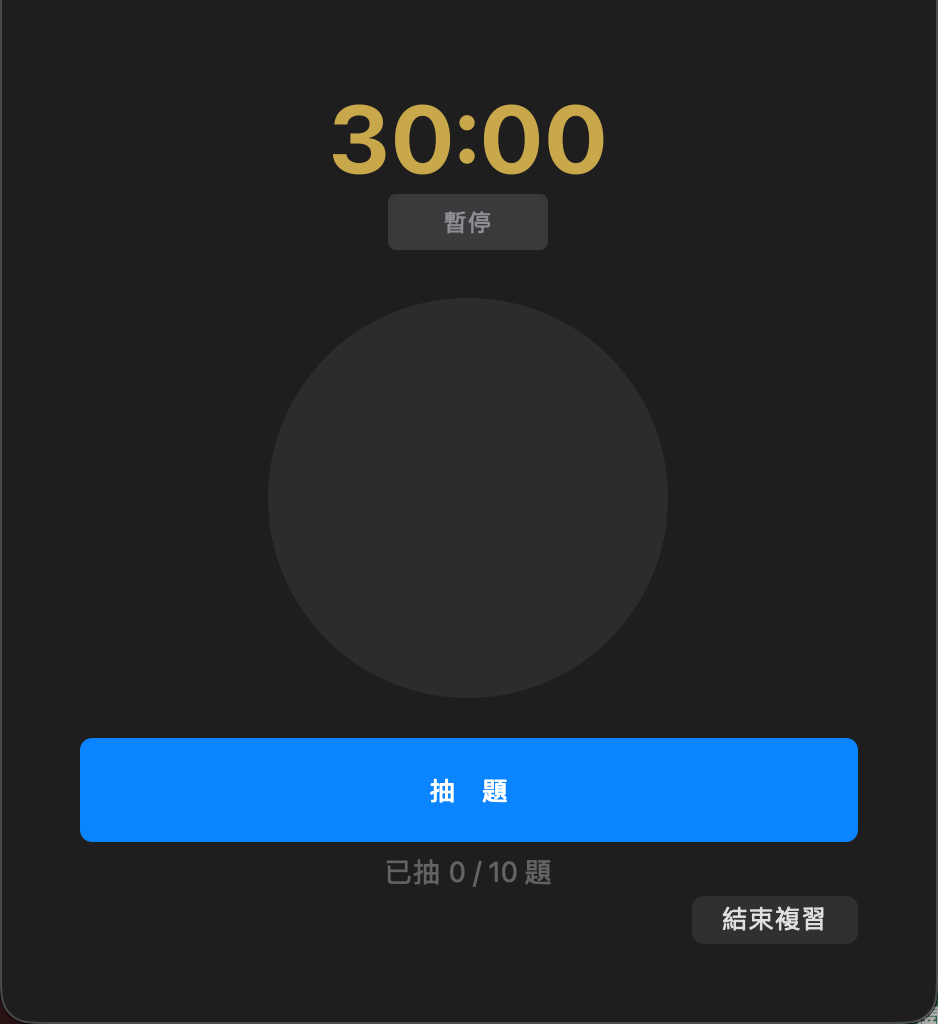
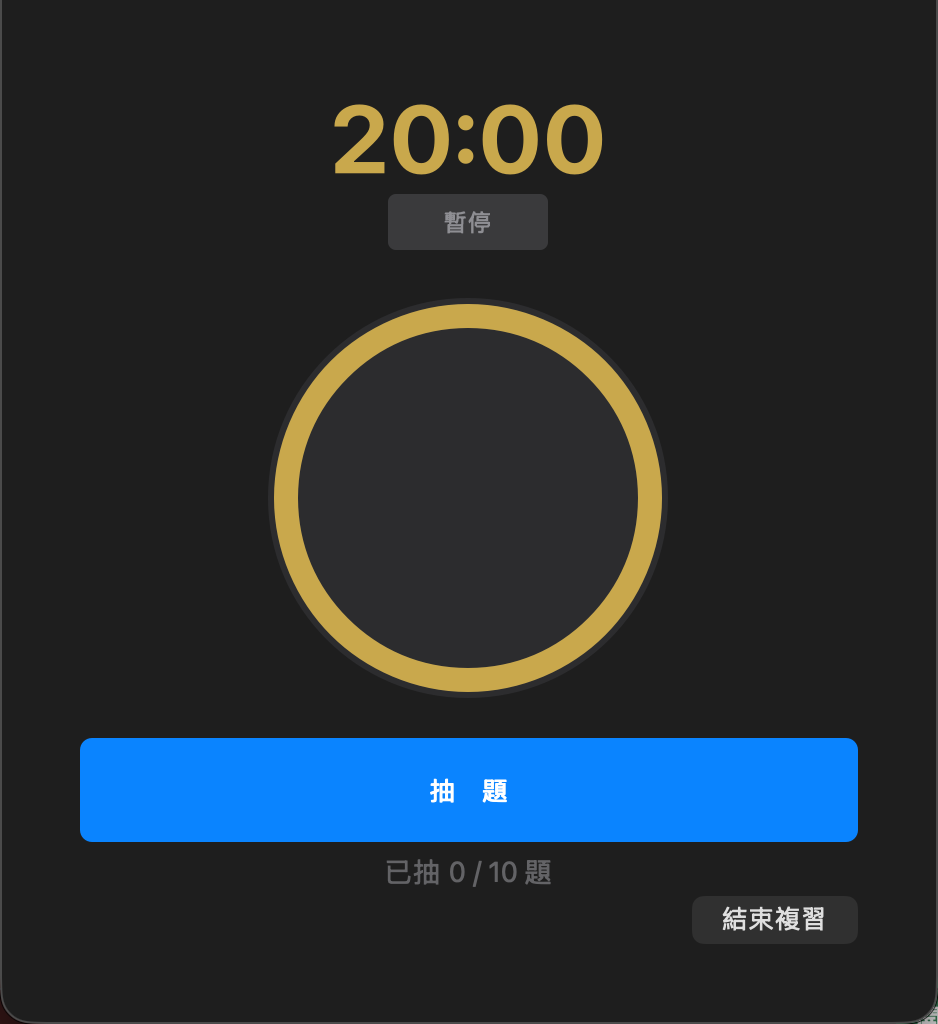
feat: replace 30-min timer circle with 20-min progress ring

diff --git a/src/presentation/chapter_review_widget.py b/src/presentation/chapter_review_widget.py
@@ -4,14 +4,75 @@ from PyQt6.QtWidgets import (
     QVBoxLayout, QHBoxLayout, QLabel, QPushButton,
     QSpinBox, QStackedWidget, QWidget,
 )
-from PyQt6.QtCore import Qt, QTimer, pyqtSignal
-from PyQt6.QtGui import QFont
+from PyQt6.QtCore import Qt, QTimer, QRectF, pyqtSignal
+from PyQt6.QtGui import QColor, QFont, QPainter, QPen
 
 from src.control.chapter_controller import ChapterController
 from src.presentation.dialogs import show_error
 import src.presentation.theme as T
 
-_TIMER_SECONDS = 30 * 60
+_TIMER_SECONDS = 20 * 60  # 20 minutes
+
+
+class _ProgressRing(QWidget):
+    """Circular progress ring showing remaining-time ratio, with question number in the centre."""
+
+    _RING_W = 12
+    _SIZE   = 200
+
+    def __init__(self, parent=None):
+        super().__init__(parent)
+        self._ratio: float = 1.0
+        self._text:  str   = ""
+        self.setFixedSize(self._SIZE, self._SIZE)
+
+    def set_ratio(self, ratio: float) -> None:
+        self._ratio = max(0.0, min(1.0, ratio))
+        self.update()
+
+    def set_text(self, text: str) -> None:
+        self._text = text
+        self.update()
+
+    def paintEvent(self, _event) -> None:
+        p = QPainter(self)
+        p.setRenderHint(QPainter.RenderHint.Antialiasing)
+
+        w = h = self._SIZE
+        m = self._RING_W // 2 + 3          # margin so ring isn't clipped
+        ring_rect = QRectF(m, m, w - 2*m, h - 2*m)
+
+        # ── Background fill ────────────────────────────────────────────
+        p.setPen(Qt.PenStyle.NoPen)
+        p.setBrush(QColor(T.SURFACE))
+        p.drawEllipse(0, 0, w, h)
+
+        # ── Track (dim full ring) ──────────────────────────────────────
+        p.setBrush(Qt.BrushStyle.NoBrush)
+        p.setPen(QPen(QColor(T.SURFACE_ALT), self._RING_W,
+                      Qt.PenStyle.SolidLine, Qt.PenCapStyle.FlatCap))
+        p.drawEllipse(ring_rect)
+
+        # ── Progress arc (gold, remaining ratio) ───────────────────────
+        if self._ratio > 0.001:
+            p.setPen(QPen(QColor(T.ACCENT_GOLD), self._RING_W,
+                          Qt.PenStyle.SolidLine, Qt.PenCapStyle.RoundCap))
+            # start at 12 o'clock (90°), sweep counter-clockwise (positive span)
+            p.drawArc(ring_rect,
+                      90 * 16,
+                      int(self._ratio * 360 * 16))
+
+        # ── Centre text (question number) ──────────────────────────────
+        if self._text:
+            p.setPen(QPen(QColor(T.TEXT)))
+            f = QFont()
+            f.setPointSize(60)
+            f.setBold(True)
+            p.setFont(f)
+            p.drawText(QRectF(0, 0, w, h).toRect(),
+                       Qt.AlignmentFlag.AlignCenter, self._text)
+
+        p.end()
 
 _RATINGS = [
     ("Again", "again", T.RED),
@@ -76,7 +137,7 @@ class ChapterReviewWidget(QWidget):
         spin_row.addStretch()
         layout.addLayout(spin_row)
 
-        layout.addWidget(QLabel("計時：30 分鐘倒數"))
+        layout.addWidget(QLabel("計時：20 分鐘倒數"))
         layout.addStretch()
 
         start_btn = QPushButton("開始")
@@ -96,7 +157,7 @@ class ChapterReviewWidget(QWidget):
         layout.addStretch(1)
 
         # Timer — centered, 48pt gold
-        self._timer_label = QLabel("30:00")
+        self._timer_label = QLabel("20:00")
         self._timer_label.setAlignment(Qt.AlignmentFlag.AlignCenter)
         timer_font = QFont()
         timer_font.setPointSize(48)
@@ -118,21 +179,9 @@ class ChapterReviewWidget(QWidget):
 
         layout.addSpacing(24)
 
-        # Number display — 72pt bold, circular dimmed background
-        self._question_label = QLabel("")
-        self._question_label.setAlignment(Qt.AlignmentFlag.AlignCenter)
-        self._question_label.setFixedSize(200, 200)
-        self._question_label.setStyleSheet(
-            f"background:{T.SURFACE};"
-            f"border-radius:100px;"
-            f"color:{T.TEXT};"
-            f"border:none;"
-        )
-        num_font = QFont()
-        num_font.setPointSize(72)
-        num_font.setBold(True)
-        self._question_label.setFont(num_font)
-        layout.addWidget(self._question_label, alignment=Qt.AlignmentFlag.AlignHCenter)
+        # Progress ring — shows remaining-time ratio + question number
+        self._ring = _ProgressRing()
+        layout.addWidget(self._ring, alignment=Qt.AlignmentFlag.AlignHCenter)
 
         layout.addSpacing(20)
 
@@ -201,7 +250,8 @@ class ChapterReviewWidget(QWidget):
         random.shuffle(self._pool)
         self._pool_idx = 0
         self._drawn_count = 0
-        self._question_label.setText("")
+        self._ring.set_ratio(1.0)
+        self._ring.set_text("")
         self._progress_label.setText(f"已抽 0 / {self._n} 題")
         self._stack.setCurrentIndex(1)
         self._timer.start()
@@ -213,7 +263,7 @@ class ChapterReviewWidget(QWidget):
         num = self._pool[self._pool_idx]
         self._pool_idx += 1
         self._drawn_count += 1
-        self._question_label.setText(str(num))
+        self._ring.set_text(str(num))
         position = ((self._drawn_count - 1) % self._n) + 1
         self._progress_label.setText(f"已抽 {position} / {self._n} 題")
 
@@ -233,6 +283,7 @@ class ChapterReviewWidget(QWidget):
         self._timer_label.setText(f"{mins:02d}:{secs:02d}")
         color = "#FF453A" if self._remaining < 5 * 60 else T.ACCENT_GOLD
         self._timer_label.setStyleSheet(f"color:{color};background:transparent;border:none;")
+        self._ring.set_ratio(self._remaining / _TIMER_SECONDS)
         if self._remaining <= 0:
             self._end_review()
 

diff --git a/README.md b/README.md
@@ -8,7 +8,7 @@
 A macOS desktop app for spaced-repetition vocabulary review and chapter study, built with PyQt6.
 
 - **Vocabulary**: FSRS v6.3.1 algorithm — Again / Hard / Good / Easy scheduling up to 365 days
-- **Chapter review**: SM-2 algorithm — random question draw with 30-minute countdown timer
+- **Chapter review**: SM-2 algorithm — random question draw with 20-minute countdown timer
 - **Dark luxury theme**: consistent ACCENT_GOLD design across all screens
 - **Data stored locally**: `~/Library/Application Support/習習複習習/data/`
 